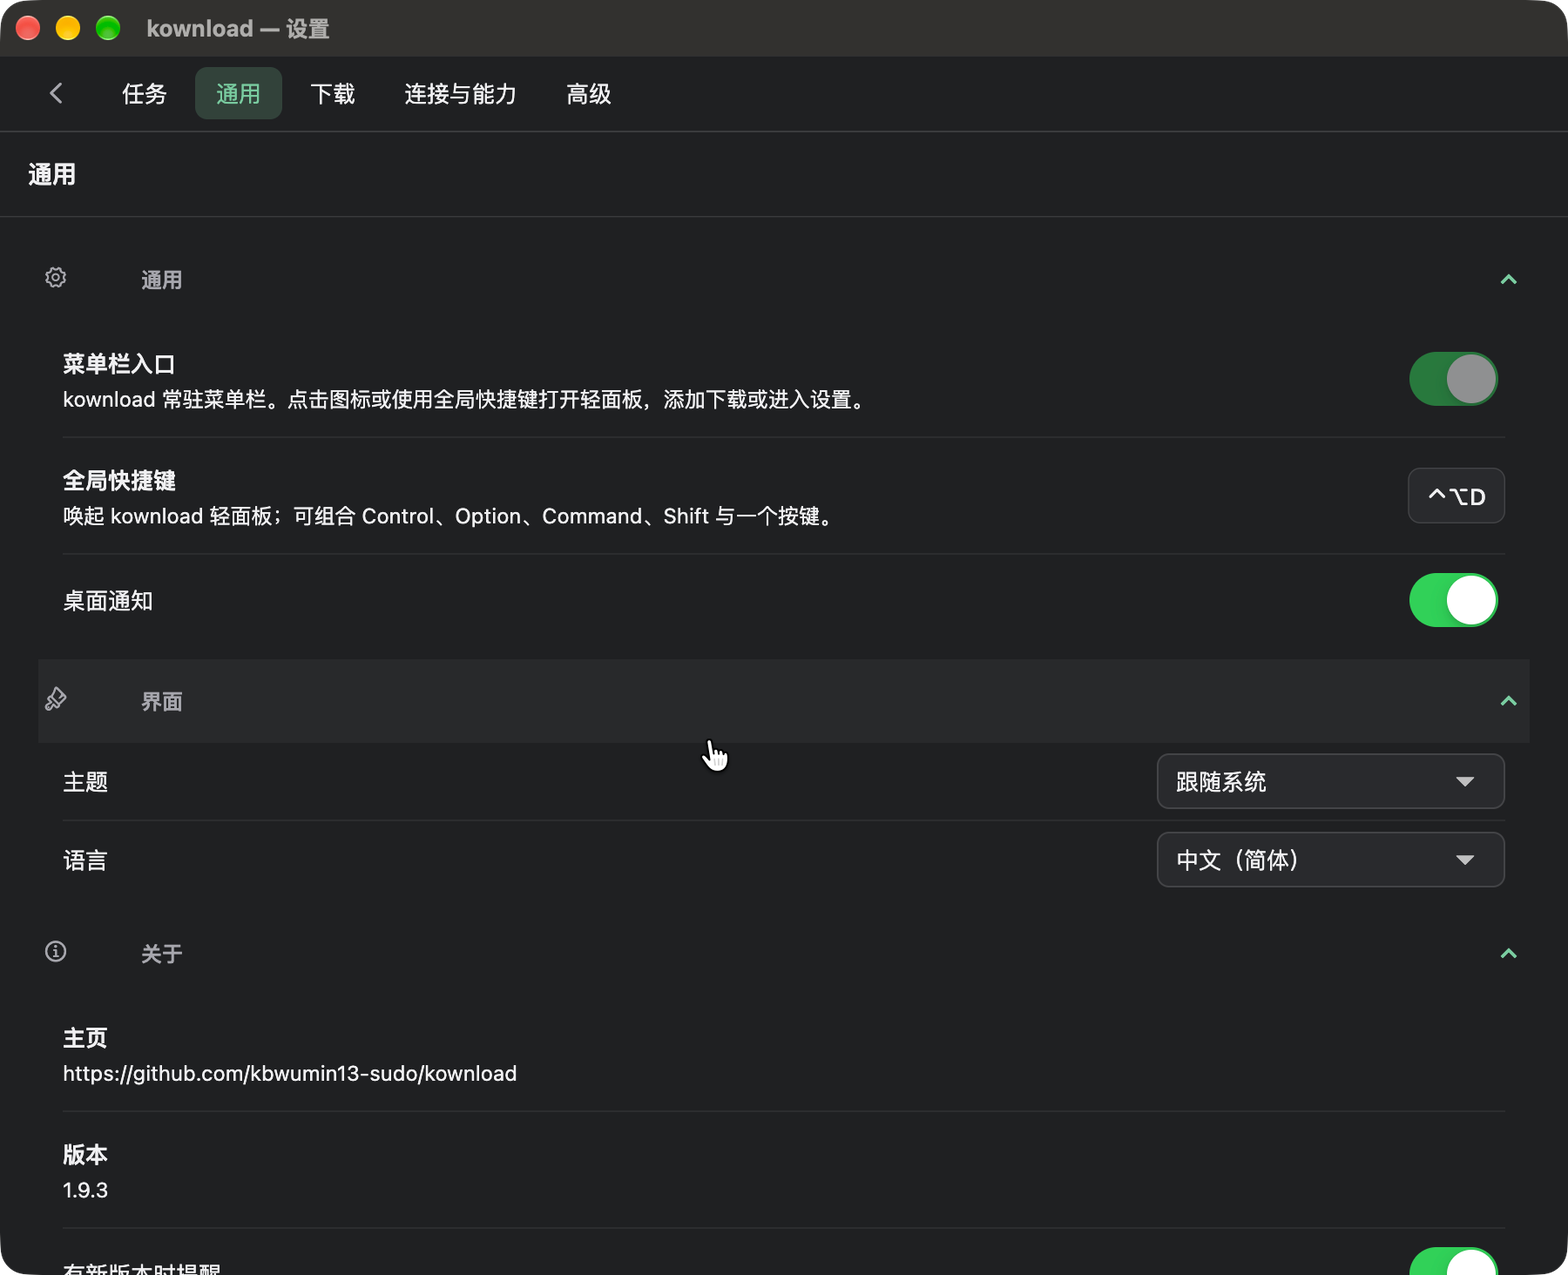
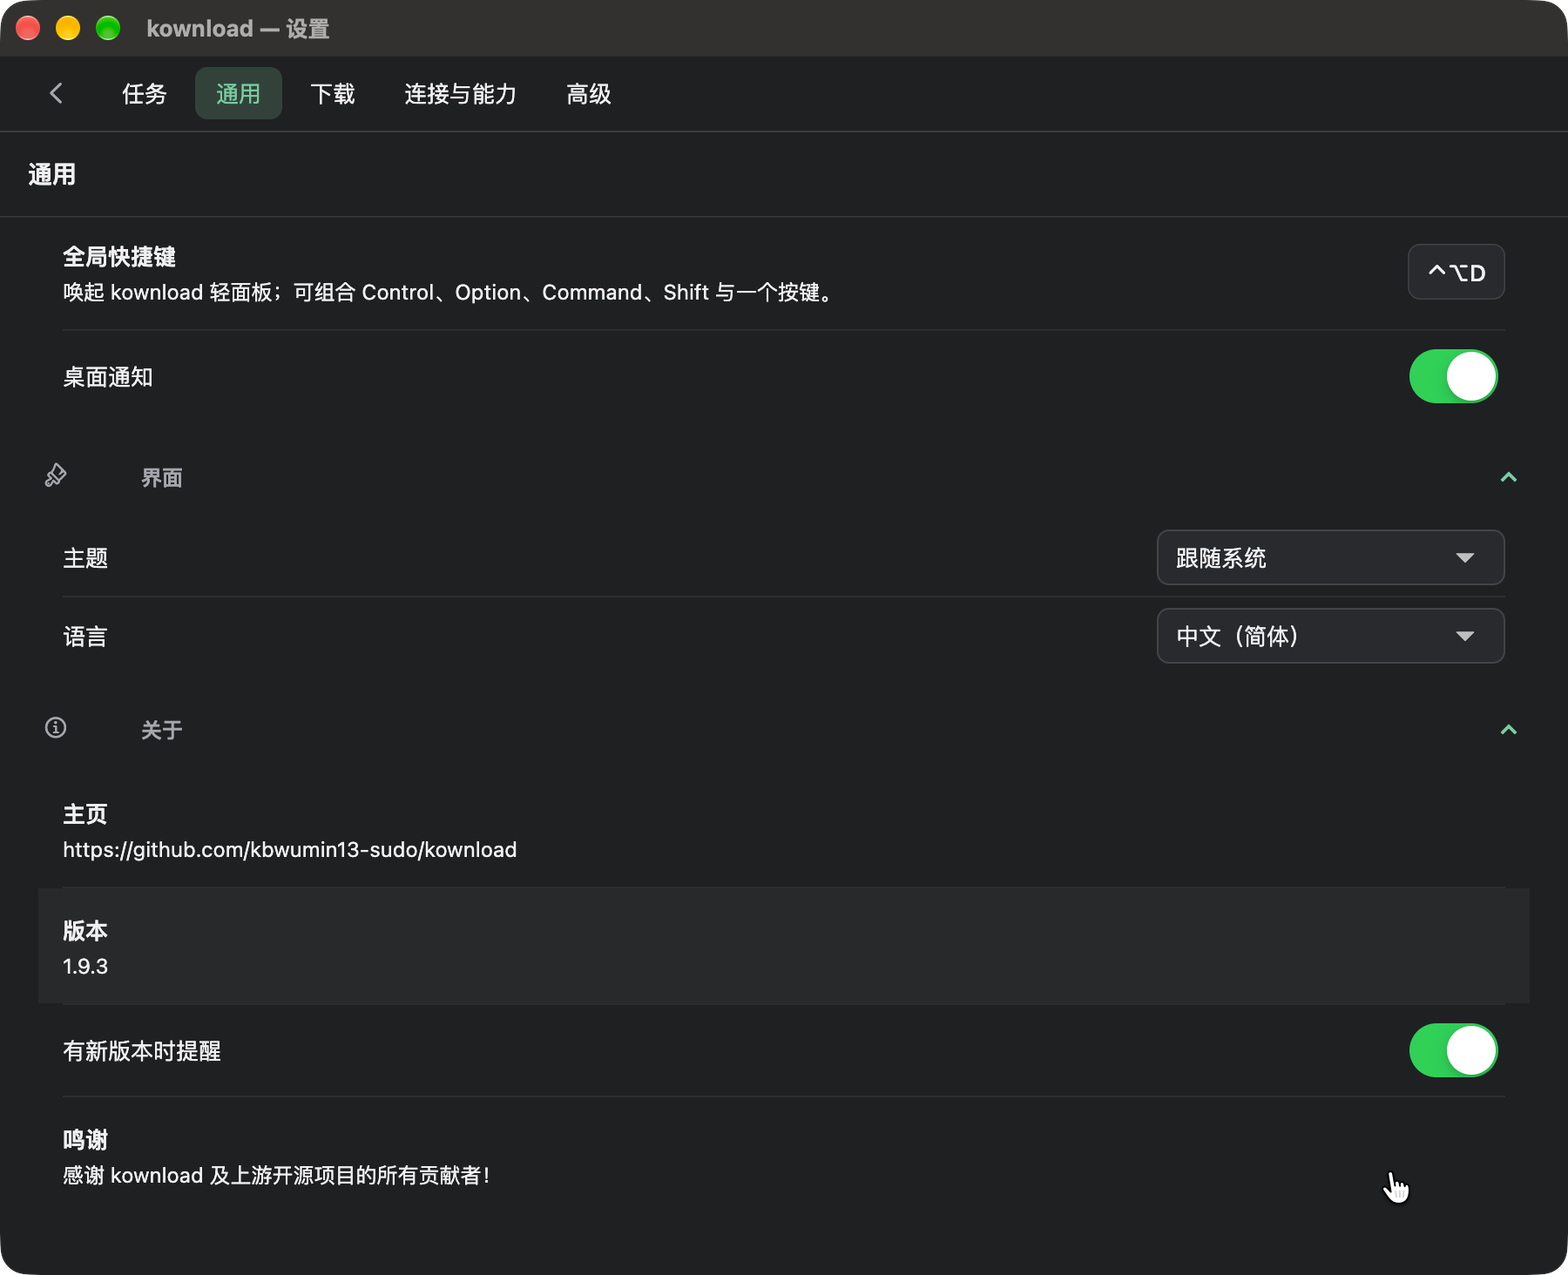
Finish kownload display naming and acknowledgements

diff --git a/ui/flutter/lib/app/modules/create/views/netdisk_view.dart b/ui/flutter/lib/app/modules/create/views/netdisk_view.dart
@@ -121,7 +121,7 @@ class _NetdiskViewState extends State<NetdiskView> {
       }
       if (['helper_missing', 'unsupported_browser']
           .contains(error.reasonCode)) {
-        return '请在所选浏览器个人资料中启用 Gopeed 网页助手，再回到原网盘页面同步。';
+        return '请在所选浏览器个人资料中启用 kownload 网页助手，再回到原网盘页面同步。';
       }
       return error.message;
     }
@@ -601,7 +601,7 @@ class _NetdiskViewState extends State<NetdiskView> {
                         const Padding(
                             padding: EdgeInsets.only(top: 6),
                             child: Text(
-                                '请在所选个人资料中启用 Gopeed 网页助手，登录原网盘页面。同步超时可取消后重试。',
+                                '请在所选个人资料中启用 kownload 网页助手，登录原网盘页面。同步超时可取消后重试。',
                                 style: TextStyle(fontSize: 12))),
                       if (_browsers.isEmpty &&
                           (_resumeOnly || _sessionId.isEmpty))

diff --git a/ui/flutter/lib/i18n/langs/ta_ta.dart b/ui/flutter/lib/i18n/langs/ta_ta.dart
@@ -99,7 +99,7 @@ const taTA = {
     'password': 'கடவுச்சொல்',
     'thanks': 'நன்றி',
     'thanksDesc':
-        'Gopeed சமூகத்தை உருவாக்கவும் மற்றும் மேம்படுத்த உதவிய அனைத்து பங்களிப்பாளர்களுக்கும் நன்றி!',
+        'kownload சமூகத்தை உருவாக்கவும் மற்றும் மேம்படுத்த உதவிய அனைத்து பங்களிப்பாளர்களுக்கும் நன்றி!',
     'browserExtension': 'உலாவி நீட்டிப்பு',
     'launchAtStartup': 'தொடக்கத்தின் போது இயங்கு',
     'runAsMenubarApp': 'மெனுபார் பயன்பாடாக இயக்கு',

diff --git a/ui/flutter/lib/app/modules/app/controllers/app_controller.dart b/ui/flutter/lib/app/modules/app/controllers/app_controller.dart
@@ -348,7 +348,7 @@ class AppController extends GetxController with WindowListener, TrayListener {
     ]);
     if (!Util.isLinux()) {
       // Linux seems not support setToolTip, refer to: https://github.com/GopeedLab/gopeed/issues/241
-      await trayManager.setToolTip('Gopeed');
+      await trayManager.setToolTip('kownload');
     }
     await trayManager.setContextMenu(menu);
     trayManager.addListener(this);
@@ -420,7 +420,7 @@ class AppController extends GetxController with WindowListener, TrayListener {
     FlutterForegroundTask.init(
       androidNotificationOptions: AndroidNotificationOptions(
         channelId: 'gopeed_service',
-        channelName: 'Gopeed Background Service',
+        channelName: 'kownload Background Service',
         channelImportance: NotificationChannelImportance.LOW,
         showWhen: true,
         priority: NotificationPriority.LOW,

diff --git a/ui/flutter/lib/i18n/langs/ru_ru.dart b/ui/flutter/lib/i18n/langs/ru_ru.dart
@@ -105,7 +105,7 @@ const ruRU = {
     'password': 'Пароль',
     'thanks': 'Благодарности',
     'thanksDesc':
-        'Благодарим всех участников за их вклад в строительство и развитие сообщества Gopeed!',
+        'Благодарим всех участников за их вклад в строительство и развитие сообщества kownload!',
     'browserExtension': 'Расширение браузера',
     'launchAtStartup': 'Запускать при загрузке системы',
     'runAsMenubarApp': 'Запускать как приложение в строке меню',

diff --git a/ui/flutter/lib/i18n/langs/uk_ua.dart b/ui/flutter/lib/i18n/langs/uk_ua.dart
@@ -105,7 +105,7 @@ const ukUA = {
     'password': 'Пароль',
     'thanks': 'Подяки',
     'thanksDesc':
-        'Дякуємо всім учасникам, які допомогли створити та розвивати спільноту Gopeed!',
+        'Дякуємо всім учасникам, які допомогли створити та розвивати спільноту kownload!',
     'browserExtension': 'Розширення для браузера',
     'launchAtStartup': 'Запускати під час завантаження системи',
     'runAsMenubarApp': 'Запускати як додаток у рядку меню',

diff --git a/ui/flutter/lib/i18n/langs/fa_ir.dart b/ui/flutter/lib/i18n/langs/fa_ir.dart
@@ -63,7 +63,7 @@ const faIR = {
     'newVersionLater': 'بعداً',
     'thanks': 'تشکر',
     'thanksDesc':
-        'از تمامی افرادی که در ساخت و توسعهی جامعهی Gopeed مشارکت کردهاند، سپاسگزاری میکنیم!',
+        'از تمامی افرادی که در ساخت و توسعهی جامعهی kownload مشارکت کردهاند، سپاسگزاری میکنیم!',
     'browserExtension': 'افزونه مرورگر',
     'skipVerifyCert': 'رد کردن تأیید گواهینامه',
     'archives': 'آرشیوها',

diff --git a/ui/flutter/lib/i18n/langs/ja_jp.dart b/ui/flutter/lib/i18n/langs/ja_jp.dart
@@ -65,7 +65,7 @@ const jaJP = {
     'newVersionUpdate': 'アップデート',
     'newVersionLater': '後で',
     'thanks': '感謝',
-    'thanksDesc': 'Gopeedコミュニティの建設に協力してくださったすべての貢献者の方々に感謝します！',
+    'thanksDesc': 'kownloadコミュニティの建設に協力してくださったすべての貢献者の方々に感謝します！',
     'browserExtension': 'ブラウザ拡張機能',
     'skipVerifyCert': '証明書の検証をスキップ',
     'archives': 'アーカイブ',

diff --git a/ui/flutter/lib/i18n/langs/vi_vn.dart b/ui/flutter/lib/i18n/langs/vi_vn.dart
@@ -92,7 +92,7 @@ const viVN = {
     'password': 'Mật khẩu',
     'thanks': 'Cảm ơn',
     'thanksDesc':
-        'Cảm ơn tất cả những người đóng góp đã giúp xây dựng và phát triển cộng đồng Gopeed!',
+        'Cảm ơn tất cả những người đóng góp đã giúp xây dựng và phát triển cộng đồng kownload!',
     'browserExtension': 'Tiện ích mở rộng trình duyệt',
     'skipVerifyCert': 'Bỏ qua xác thực chứng chỉ',
     'archives': 'Tập tin nén',

diff --git a/ui/flutter/lib/i18n/langs/hu_hu.dart b/ui/flutter/lib/i18n/langs/hu_hu.dart
@@ -109,7 +109,7 @@ const huHU = {
     'password': 'Jelszó',
     'thanks': 'Köszönet',
     'thanksDesc':
-        'Köszönet minden hozzájárulónak, aki segített a Gopeed közösség építésében és fejlesztésében!',
+        'Köszönet minden hozzájárulónak, aki segített a kownload közösség építésében és fejlesztésében!',
     'browserExtension': 'Böngésző bővítmény',
     'launchAtStartup': 'Indítás indításkor',
     'runAsMenubarApp': 'Futtatás menüsáv alkalmazásként',

diff --git a/ui/flutter/lib/i18n/langs/es_es.dart b/ui/flutter/lib/i18n/langs/es_es.dart
@@ -103,7 +103,7 @@ const esES = {
     'password': 'Contraseña',
     'thanks': 'Agradecimientos',
     'thanksDesc':
-        '¡Gracias a todos los contribuyentes que han ayudado a construir y desarrollar la comunidad Gopeed!',
+        '¡Gracias a todos los contribuyentes que han ayudado a construir y desarrollar la comunidad kownload!',
     'browserExtension': 'Extensión del Navegador',
     'launchAtStartup': 'Iniciar al Arranque',
     'runAsMenubarApp': 'Ejecutar como aplicación de barra de menú',

diff --git a/ui/flutter/lib/i18n/langs/fr_fr.dart b/ui/flutter/lib/i18n/langs/fr_fr.dart
@@ -104,7 +104,7 @@ const frFR = {
     'password': 'Mot de passe',
     'thanks': 'Merci',
     'thanksDesc':
-        'Merci à tous les contributeurs qui ont aidé à construire et développer la communauté Gopeed !',
+        'Merci à tous les contributeurs qui ont aidé à construire et développer la communauté kownload !',
     'browserExtension': 'Extension du navigateur',
     'launchAtStartup': 'Lancer au démarrage',
     'runAsMenubarApp': 'Exécuter en tant qu\'application de barre de menus',

diff --git a/ui/flutter/lib/i18n/langs/ca_es.dart b/ui/flutter/lib/i18n/langs/ca_es.dart
@@ -152,7 +152,7 @@ const caES = {
     'password': 'Contrasenya',
     'thanks': 'Gràcies',
     'thanksDesc':
-        'Gràcies a tots els col·laboradors que han ajudat a construir i desenvolupar la comunitat del Gopeed!',
+        'Gràcies a tots els col·laboradors que han ajudat a construir i desenvolupar la comunitat del kownload!',
     'browserExtension': 'Extensió del navegador',
     'launchAtStartup': 'Executa a l\'inici',
     'runAsMenubarApp': 'Executa com a aplicació de barra de menú',
